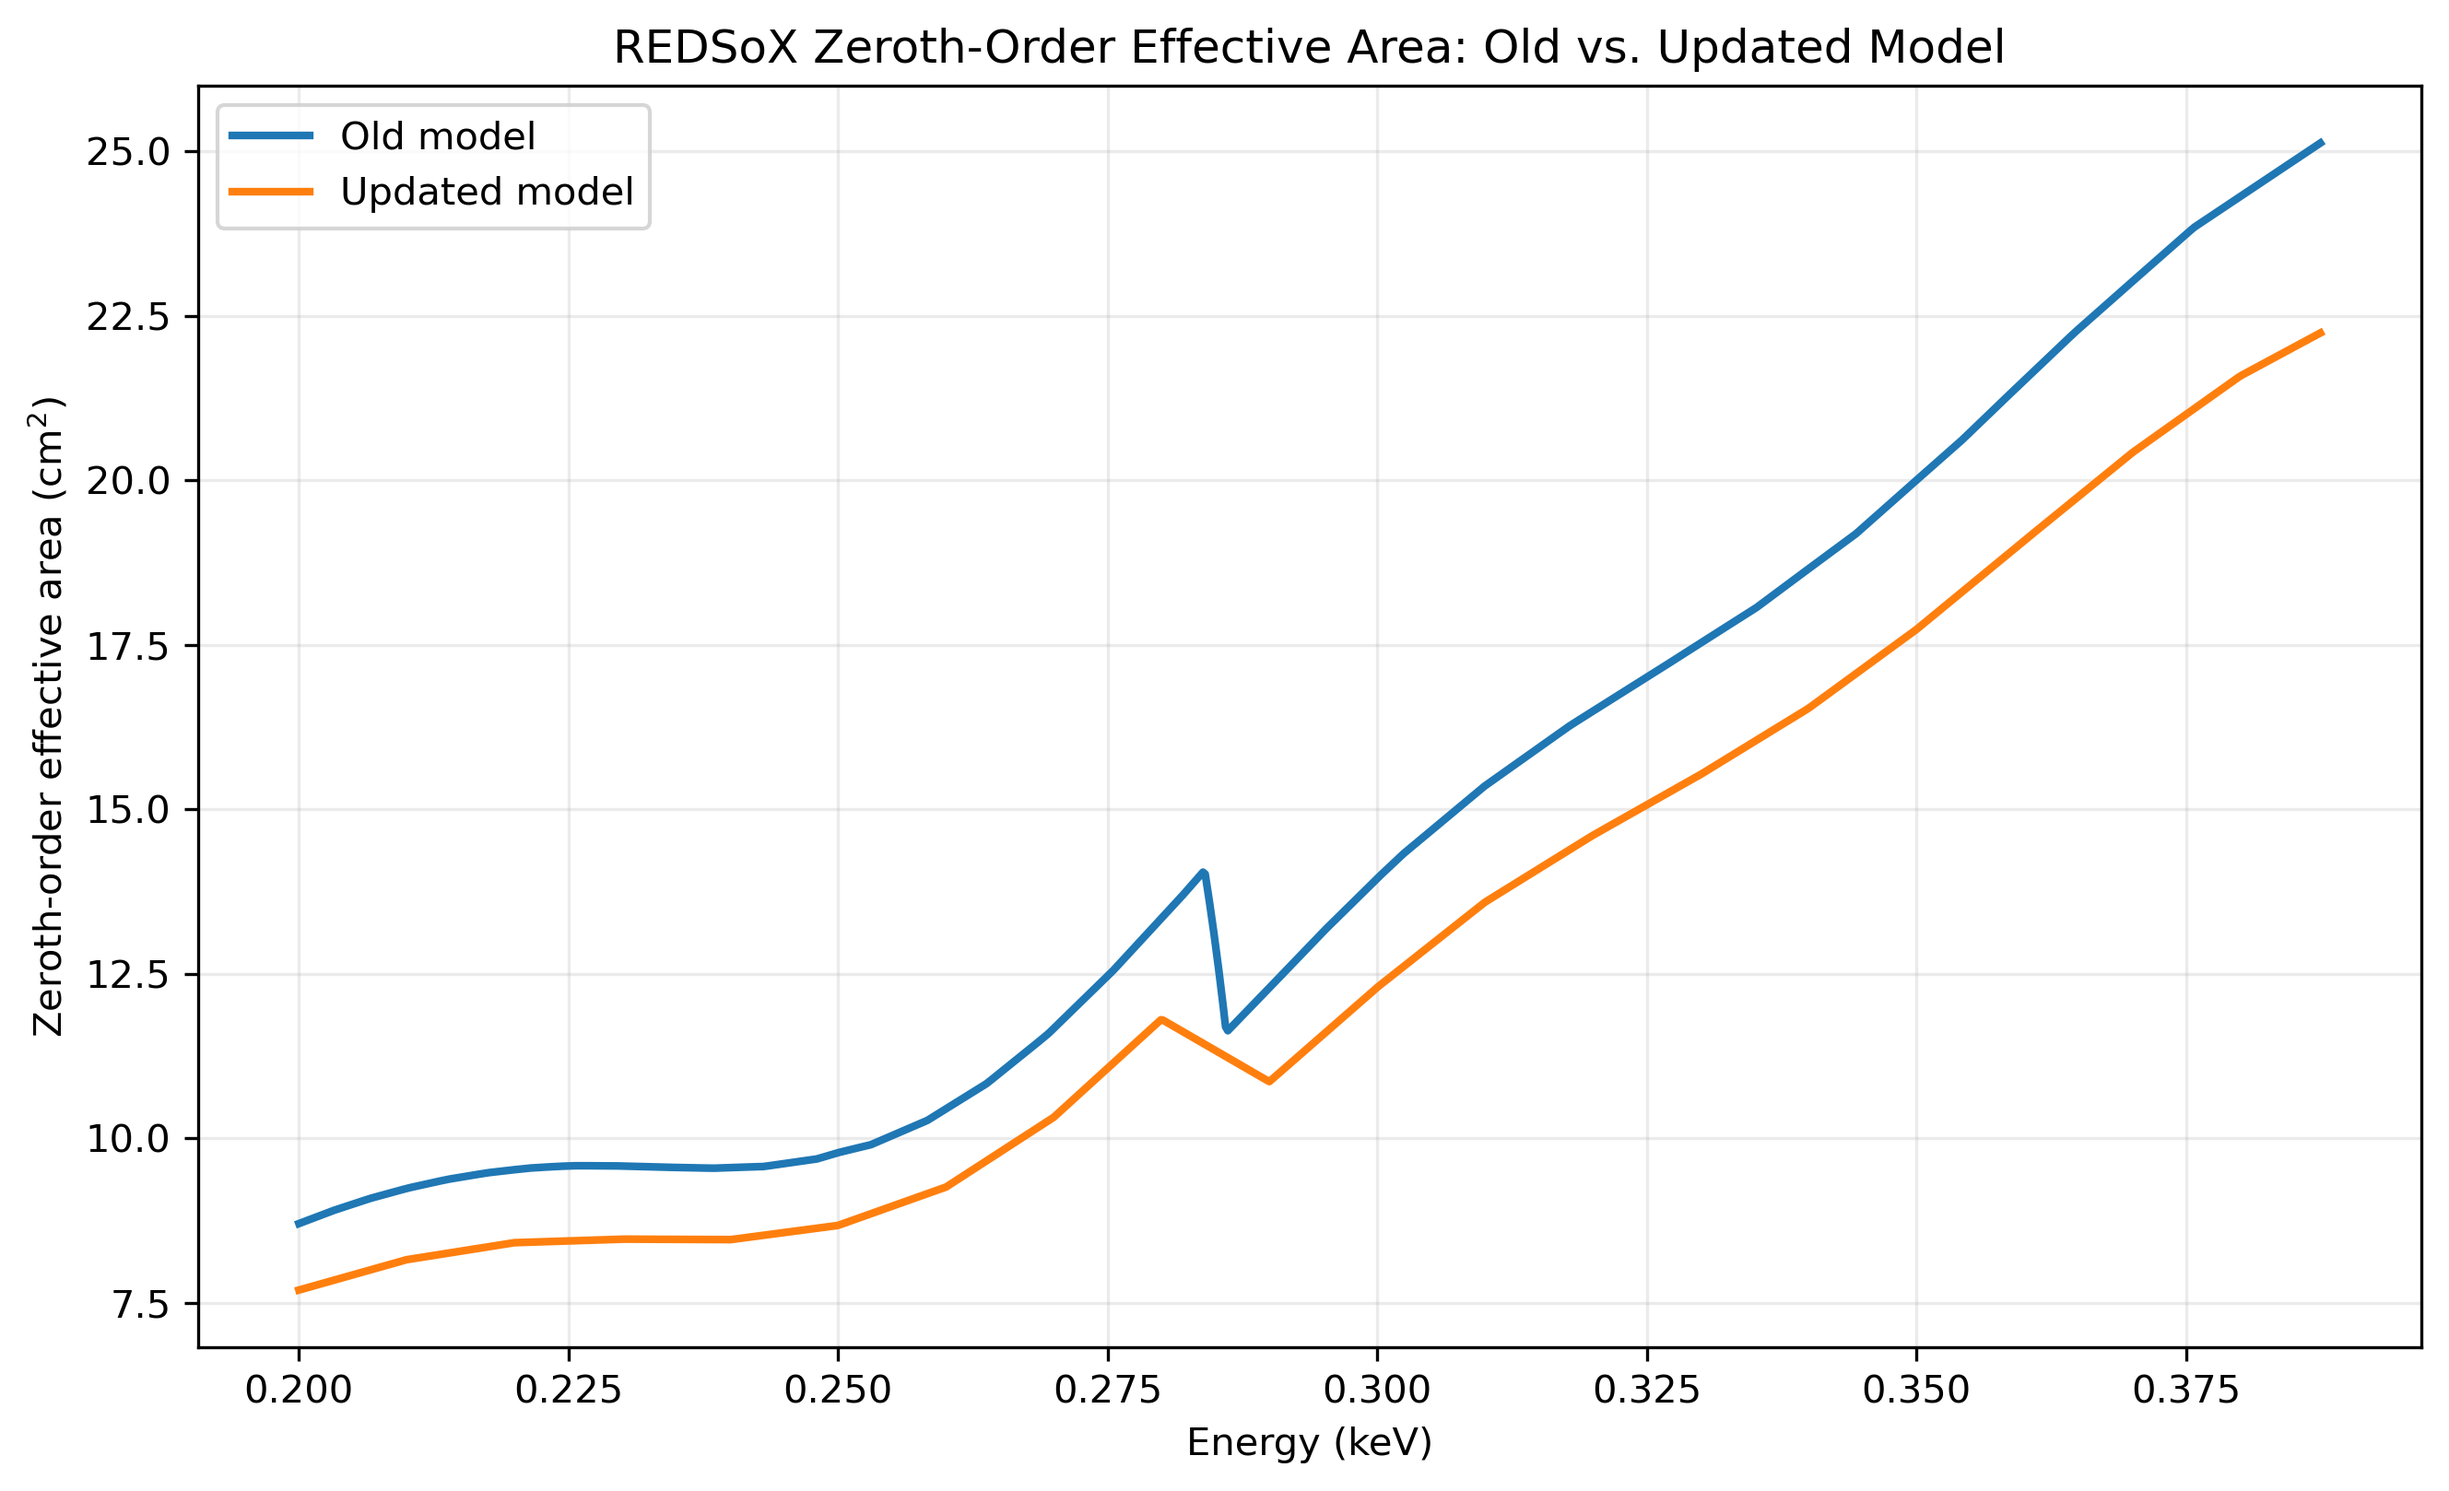
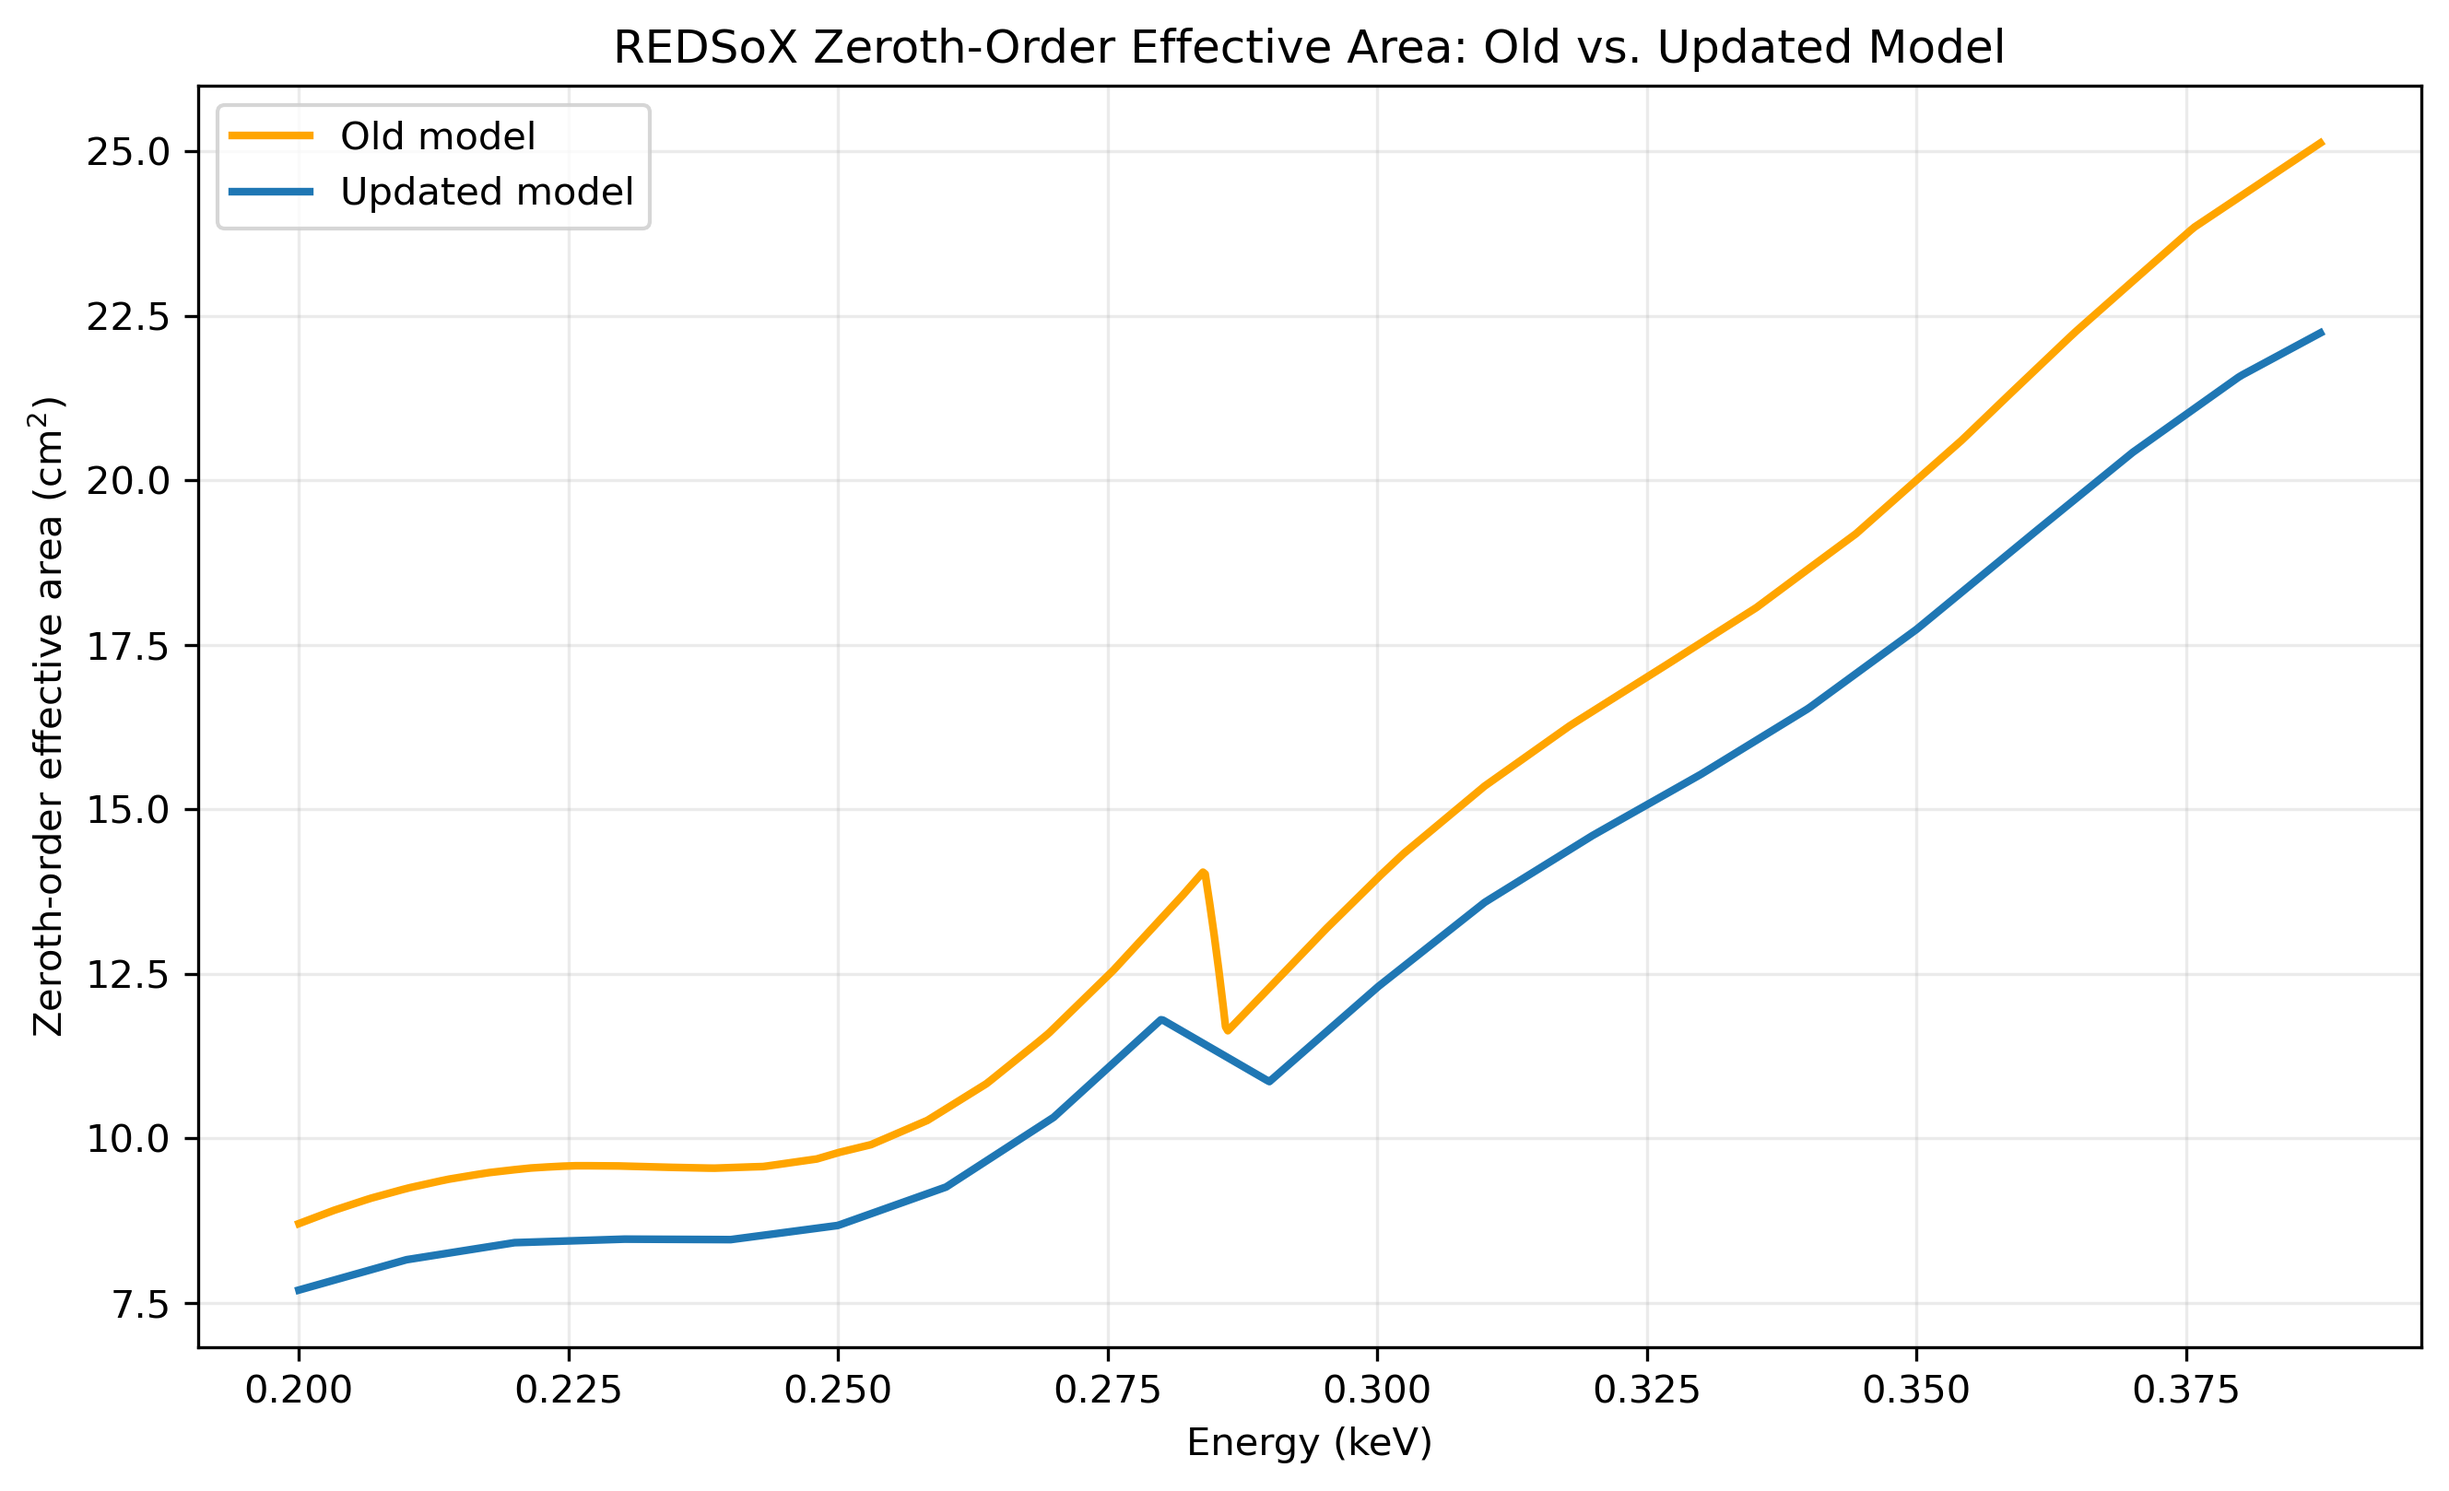
Finalized presentation figures

diff --git a/plot_redsox.py b/plot_redsox.py
@@ -148,7 +148,7 @@ def plot_old_vs_new_ea(energy_old, aeff_old, energy_new, aeff_new, output_path):
 
     fig, ax = plt.subplots(figsize=(9, 5.5))
 
-    ax.plot(energy, old, linewidth=2.0, label="Old model")
+    ax.plot(energy, old, linewidth=2.0, label="Old model", color="orange")
     ax.plot(energy, new, linewidth=2.0, label="Updated model")
 
     ax.set_xlabel("Energy (keV)")
